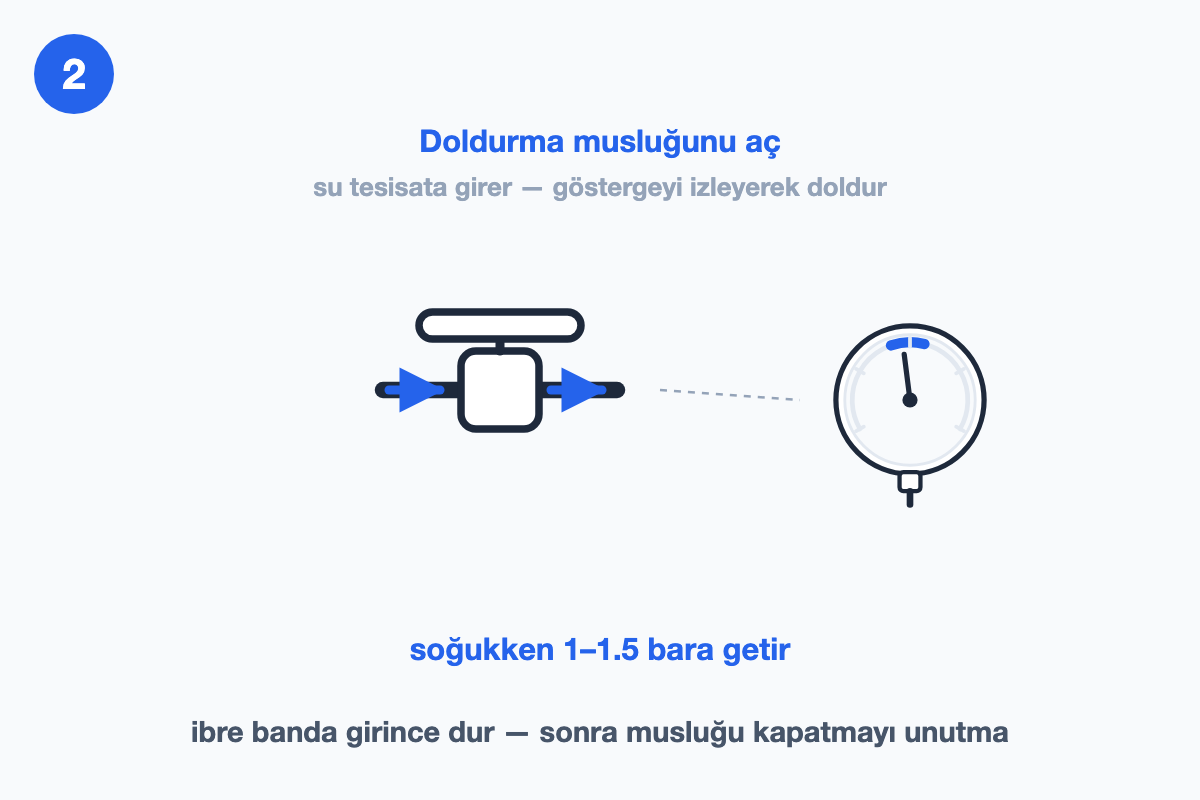
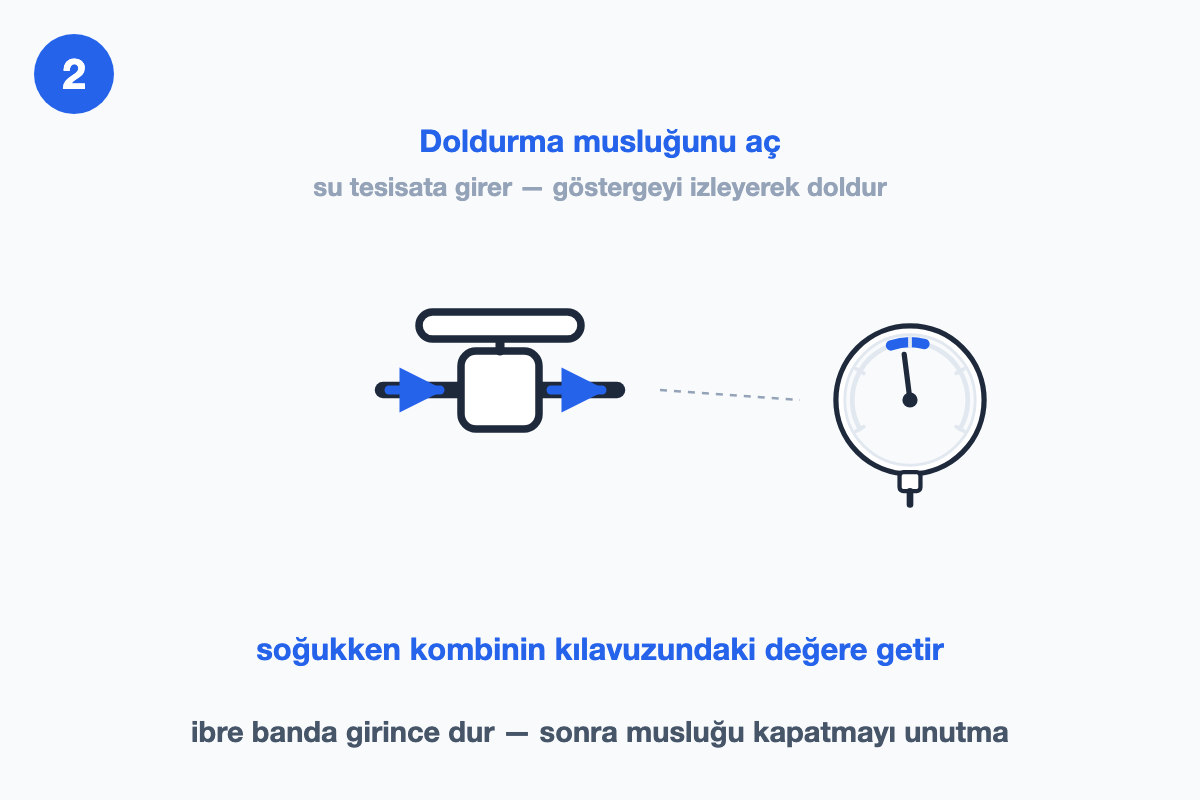
Rehber: kombi-basinc-dusuyor adim-02 karesi GRF 18 Eyl basimiyla degisti — '1-1.5 bar' yerine 'kilavuzdaki deger' (#88)

Changed region(s): [[0.2158, 0.7812, 0.8017, 0.8438]]

diff --git a/content/blog/kombi-basinc-dusuyor.md b/content/blog/kombi-basinc-dusuyor.md
@@ -40,7 +40,7 @@ steps:
 #    https://eca.com.tr/uploads/documents//aff/a1a45d25-44e3-4ca3-8001-786e45e7a0d3.pdf
 #    HTTP 200 · 48 sf · md5 28a5d7565ffbc9c1faaf1e97e45553d9 · soğukken 1,5-2 bar, doldurma vanasını mutlaka kapatın (tesisat suyu akarak zarar verebilir), basınç sık düşüyorsa su kaçağı / tesisatçı s.25
 # Kapsam: basınç kümesi (değer, doldurma tarifi, 'en sık'). Genleşme tankı / emniyet ventili / çek valf / kombi içi conta mekanizmaları bu turda DENETLENMEDİ (❓).
-# ⚠ images.steps[1] alt metni rakamsız; ama public/tamir-gorsel/kombi-basinc-dusuyor/adim-02 karesinin üzerinde 'soğukken 1-1.5 bara getir' yazıyor → GRF yeniden basmalı.
+# ✅ 19 Eyl: public/tamir-gorsel/kombi-basinc-dusuyor/adim-02 GRF 18 Eyl basımıyla değişti — karede artık 'soğukken kombinin kılavuzundaki değere getir' yazıyor (md5 png 64c6df3b… / webp fda4968b…).
 # Belgede olmadığı için ÇIKARILDI: "1-1.5 bar" (tek aralık) · "en sık sebep" / "en çok düşüren" / "çoğu zaman" · "kombinin altındaki doldurma musluğu" · "bunu güvenle kendin yapabilirsin" · "yarım kapalı vana basıncı kendiliğinden oynatır, çek valf de aynı sonucu verir"
 faq:
   - q: "Kombinin su basıncı neden sürekli düşer?"
